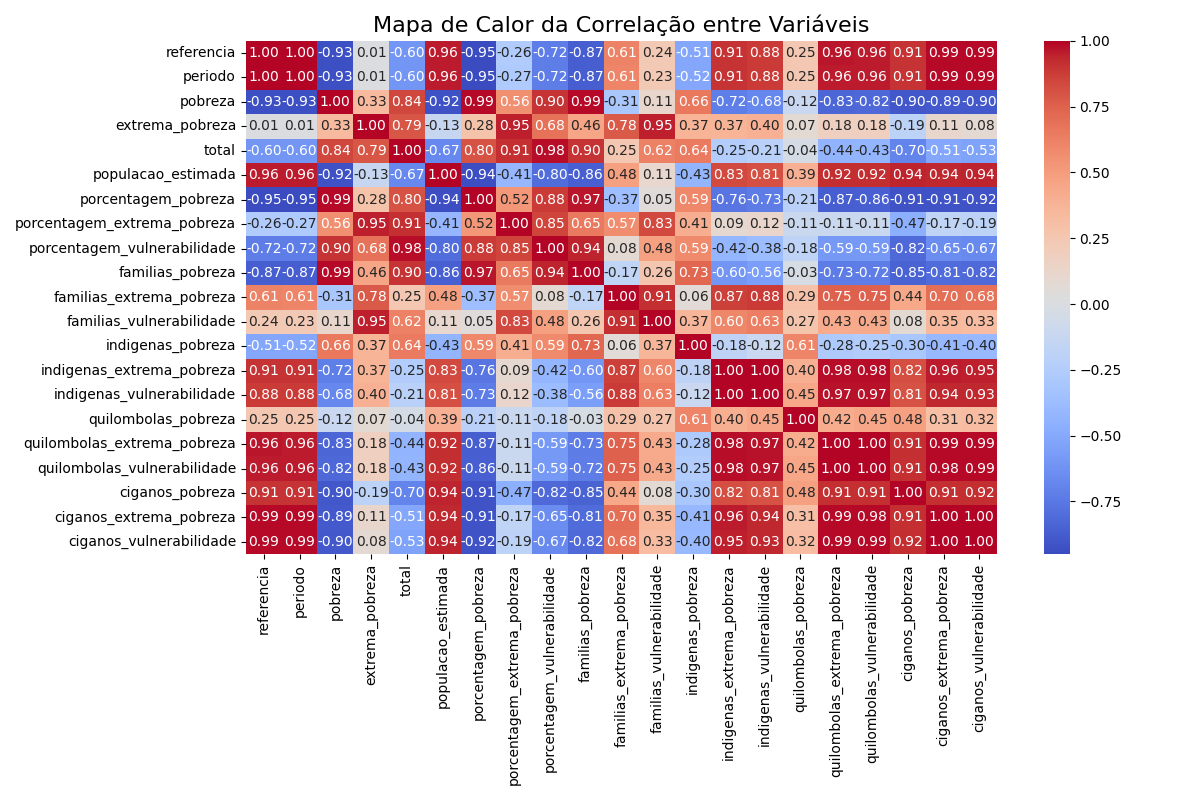
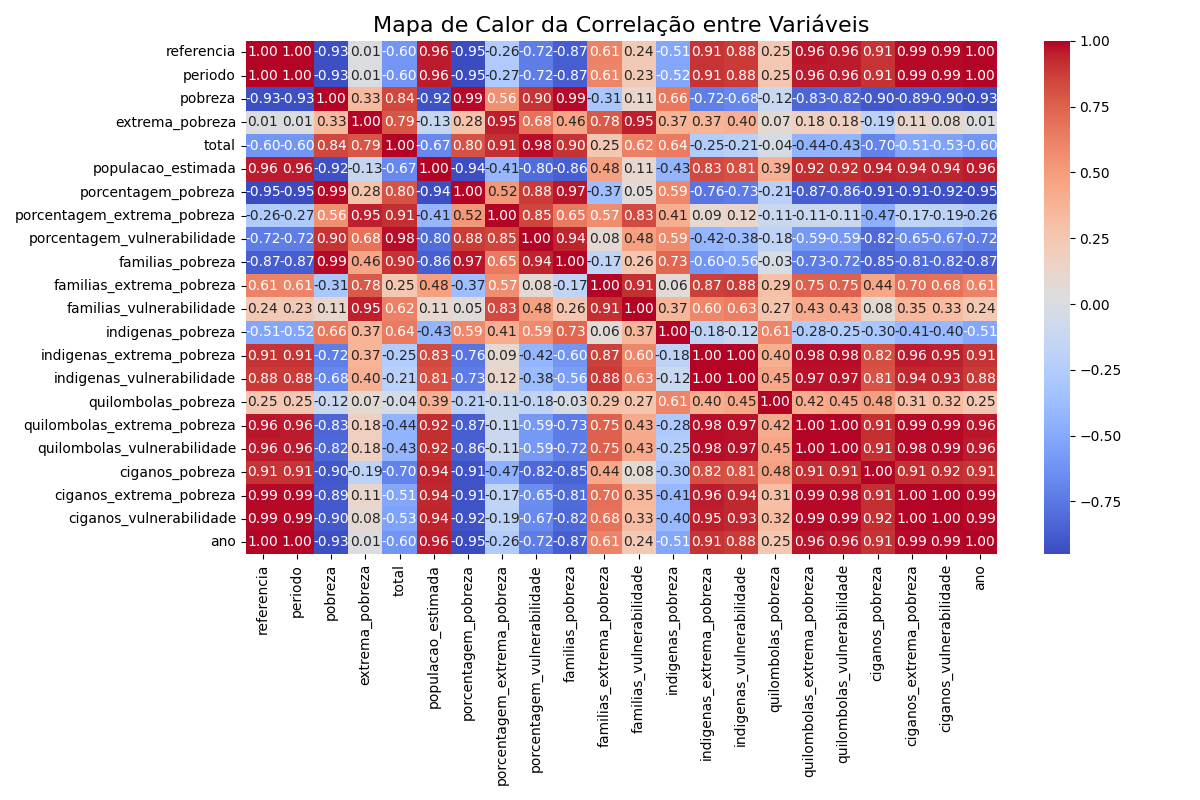
Atualização do projeto de análise de pobreza e vulnerabilidade

diff --git a/analise_pobreza.py b/analise_pobreza.py
@@ -5,26 +5,29 @@ import seaborn as sns
 # Carregar o dataset
 df = pd.read_csv('dados_pobreza.csv')
 
+# Extrair o ano do campo 'periodo' e converter para numérico
+df['ano'] = df['periodo'].astype(str).str[:4].astype(int)
 
-print(df.head())
+# Verificar o carregamento correto dos dados
+print(df[['ano', 'porcentagem_pobreza', 'porcentagem_extrema_pobreza']].head())
 
-# Análise de Tendências com Gráficos de Linha
+# Gráfico de linha para evolução da pobreza e extrema pobreza
 plt.figure(figsize=(12, 6))
-plt.plot(df['periodo'], df['porcentagem_pobreza'], marker='o', label='Porcentagem de Pobreza', color='blue')
-plt.plot(df['periodo'], df['porcentagem_extrema_pobreza'], marker='o', label='Porcentagem de Extrema Pobreza', color='red')
-plt.title('Tendências de Pobreza e Extrema Pobreza no Brasil (2012-2022)', fontsize=16)
+plt.plot(df['ano'], df['porcentagem_pobreza'], marker='o', color='blue', label='Porcentagem de Pobreza')
+plt.plot(df['ano'], df['porcentagem_extrema_pobreza'], marker='o', color='red', label='Porcentagem de Extrema Pobreza')
+plt.title('Evolução da Pobreza e Extrema Pobreza no Brasil (2012-2022)', fontsize=16)
 plt.xlabel('Ano', fontsize=14)
 plt.ylabel('Porcentagem', fontsize=14)
-plt.xticks(rotation=45)
+plt.xticks(df['ano'], rotation=45)
 plt.legend()
 plt.grid()
-plt.tight_layout()  # Ajusta o layout para melhor visualização
-plt.savefig('tendencias_pobreza.png')  # Salva o gráfico
+plt.tight_layout()
+plt.savefig('tendencias_pobreza.png')
 plt.show()
 
-# Gráfico de barras para grupos étnicos
+# Gráfico de barras para vulnerabilidade entre grupos étnicos
 grupos = ['indigenas_vulnerabilidade', 'quilombolas_vulnerabilidade', 'ciganos_vulnerabilidade']
-valores = df[grupos].mean()  # Calculando a média
+valores = df[grupos].mean()
 
 plt.figure(figsize=(8, 5))
 plt.bar(valores.index, valores.values, color=['lightblue', 'lightgreen', 'salmon'])
@@ -33,40 +36,39 @@ plt.ylabel('Média de Vulnerabilidade', fontsize=14)
 plt.xlabel('Grupos Étnicos', fontsize=14)
 plt.grid(axis='y')
 plt.tight_layout()
-plt.savefig('media_vulnerabilidade.png')  # Salva o gráfico
+plt.savefig('media_vulnerabilidade.png')
 plt.show()
 
-# Análise de Correlações
+# Mapa de calor para análise de correlação
 plt.figure(figsize=(12, 8))
-correlation = df.corr()  # Calculando a correlação
+correlation = df.corr()
 sns.heatmap(correlation, annot=True, fmt='.2f', cmap='coolwarm')
 plt.title('Mapa de Calor da Correlação entre Variáveis', fontsize=16)
 plt.tight_layout()
-plt.savefig('mapa_calor_correlacao.png')  # Salva o gráfico
+plt.savefig('mapa_calor_correlacao.png')
 plt.show()
 
-# Relatório Final com Descrição
+# Relatório Final
 resumo = """
 Análise de Pobreza e Vulnerabilidade no Brasil (2012-2022)
 
-1. Tendências de Pobreza e Extrema Pobreza:
-   - Observamos que a porcentagem de pobreza e extrema pobreza apresenta uma tendência de redução ao longo dos anos, 
-     embora a extrema pobreza ainda permaneça em níveis preocupantes em alguns anos.
+1. Evolução da Pobreza e Extrema Pobreza:
+   - Observa-se uma tendência de redução na porcentagem de pobreza ao longo dos anos, embora a extrema pobreza ainda
+     permaneça em níveis elevados em certos períodos, o que indica a necessidade de intervenções sociais.
 
-2. Média de Vulnerabilidade por Grupos Étnicos:
-   - A média de vulnerabilidade dos grupos indígenas, quilombolas e ciganos é significativamente maior, 
-     indicando a necessidade de políticas públicas específicas e eficazes para esses grupos.
+2. Vulnerabilidade por Grupos Étnicos:
+   - Grupos étnicos específicos, como indígenas, quilombolas e ciganos, apresentam média de vulnerabilidade
+     significativamente alta, sugerindo uma necessidade de políticas públicas focadas nesses grupos.
 
-3. Mapa de Calor da Correlação:
-   - O mapa de calor ilustra a relação entre várias variáveis, revelando correlações significativas 
-     que podem ajudar na compreensão dos fatores que influenciam a pobreza no Brasil.
+3. Análise de Correlação:
+   - O mapa de calor mostra as correlações entre diferentes variáveis, ajudando a identificar os fatores que
+     influenciam a pobreza e a vulnerabilidade no Brasil.
 
-Os gráficos e o mapa de calor fornecem uma visão visual das questões de pobreza e vulnerabilidade,
-enquanto o relatório textual sumariza as principais descobertas.
+Os gráficos e o relatório fornecem uma visão completa das questões analisadas.
 """
 
-# Salvar o resumo em um arquivo de texto
+# Salva o resumo em um arquivo de texto
 with open('relatorio_pobreza.txt', 'w') as f:
     f.write(resumo)
 
-print("Análise completa! Gráficos e relatório salvos.")
+print("Análise concluída! Gráficos e relatório salvos.")
